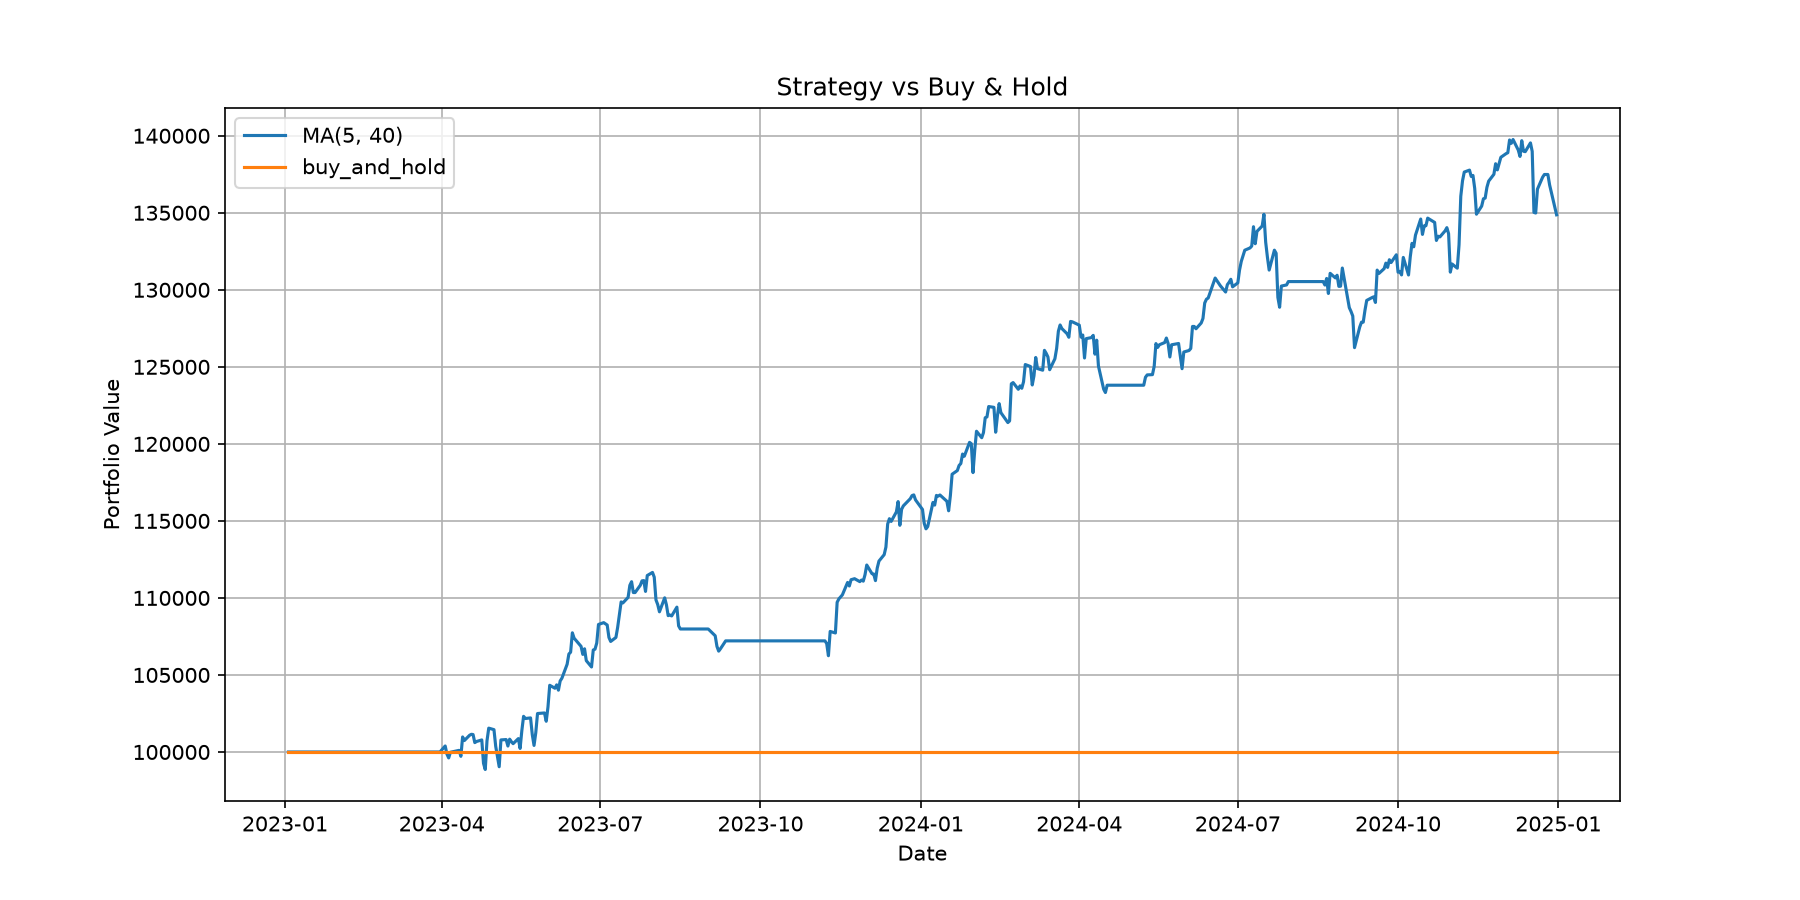
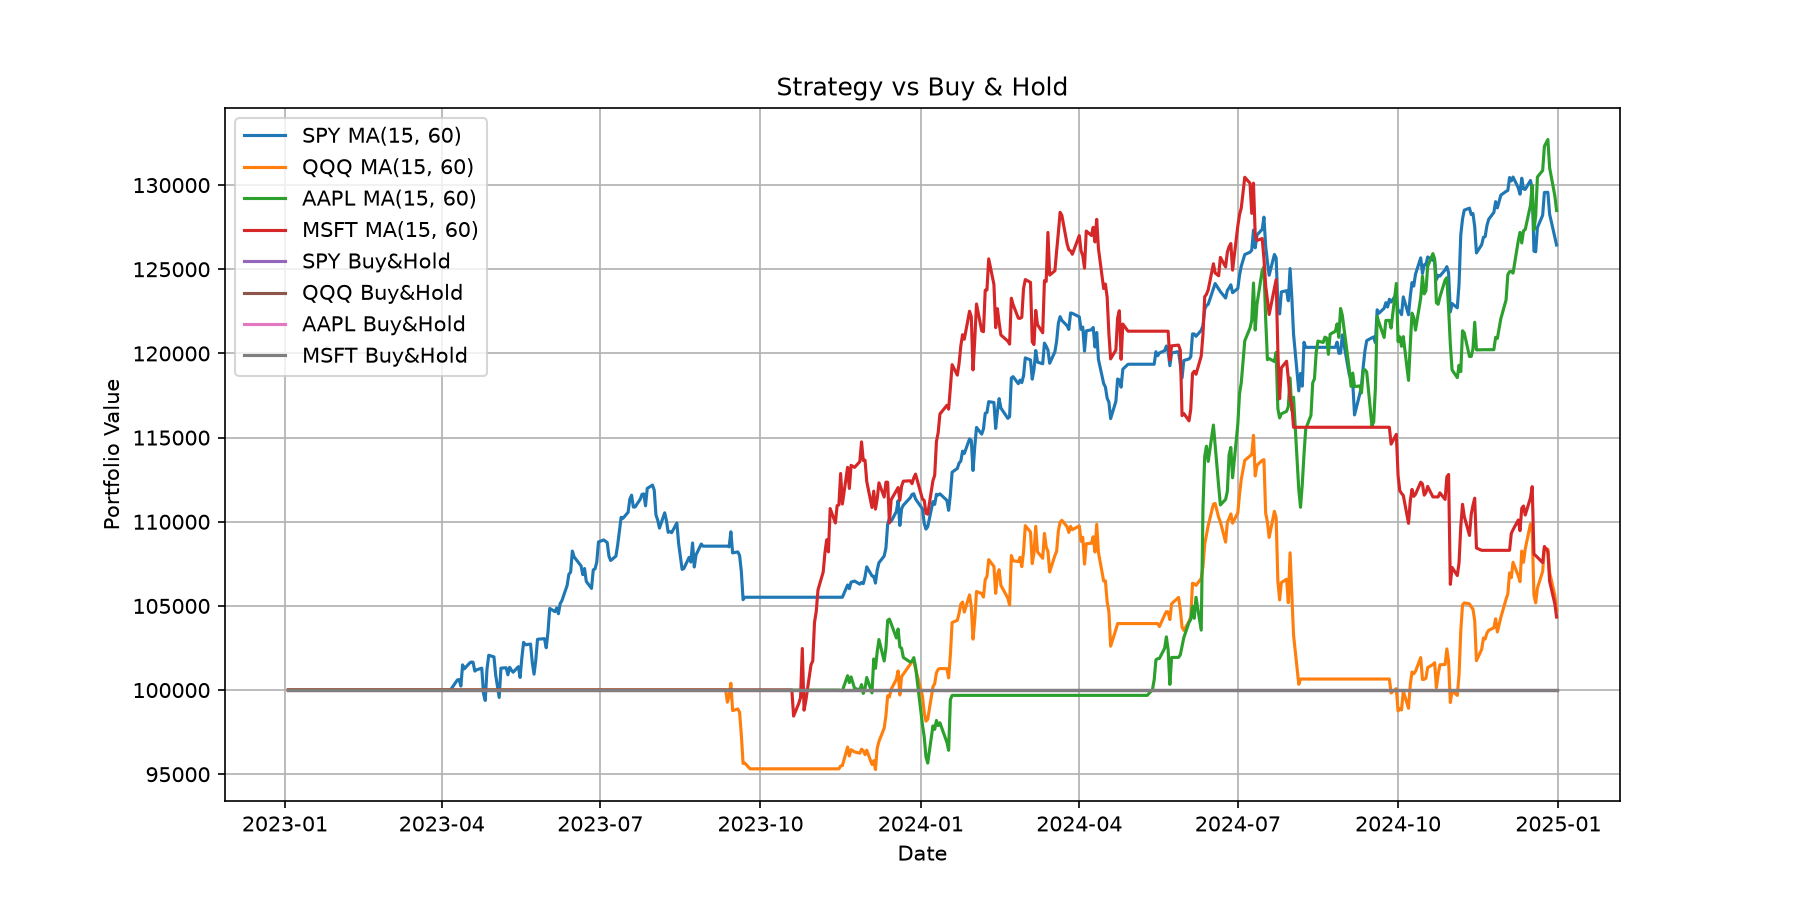
mutiple opt ma and analysis

diff --git a/src/engine.py b/src/engine.py
@@ -1,5 +1,6 @@
 from datetime import datetime
 from pathlib import Path
+from collections import defaultdict
 
 import backtrader as bt
 
@@ -69,6 +70,22 @@ def run_single_ma(ticker, fast, slow, start_year, end_year, cash=100_000):
         final_value=cerebro.broker.getvalue(),
     )
 
+def run_multipl_ma(tickers, fast, slow, start_year, end_year, cash=100_000):
+    # print("her")
+    results = [] 
+    for ticker in tickers:
+        results.append(run_single_ma(
+            ticker=ticker,
+            fast=fast,
+            slow=slow,
+            start_year=start_year,
+            end_year=end_year,
+            cash=cash
+        )   )
+
+    return results
+    
+
 
 def run_buy_and_hold(ticker, start_year, end_year, cash=100_000):
     cerebro = bt.Cerebro()
@@ -96,6 +113,19 @@ def run_buy_and_hold(ticker, start_year, end_year, cash=100_000):
         final_value=cerebro.broker.getvalue(),
     )
 
+
+def multiple_buy_and_hold(tickers, start_year, end_year, cash=100_000):
+    results = []
+    for ticker in tickers:
+        results.append(
+            run_buy_and_hold(
+                ticker, 
+                start_year,
+                end_year,
+                cash
+            )
+        )
+    return results
 
 def optimize_ma(ticker, start_year, end_year, cash=100_000):
     cerebro = bt.Cerebro()
@@ -139,3 +169,30 @@ def optimize_ma(ticker, start_year, end_year, cash=100_000):
     )
 
     return rows
+def multiple_opt_ma(tickers, start_year, end_year, cash=100_000):
+    results = []
+    for ticker in tickers:
+        results.append(
+            optimize_ma(
+                ticker=ticker,
+                start_year=start_year,
+                end_year=end_year,
+                cash=cash
+            )
+        )
+
+    all_results = [item for sublist in results for item in sublist]
+    param_scores = defaultdict(list)
+    for r in all_results:
+        if r["sharpe"] is not None: 
+            key = (r["fast"], r["slow"])
+            param_scores[key].append(r["sharpe"])
+
+    best_key = max(
+        param_scores,
+        # key=lambda k :sum(param_scores[k]/ len(param_scores[k]))
+        key=lambda k: sum(param_scores[k])/len(param_scores[k])
+    )
+    best = {"fast": best_key[0], "slow": best_key[1]}
+    print(f"testing best {type(best)}")
+    return best

diff --git a/backtests/run_walk_forward.py b/backtests/run_walk_forward.py
@@ -2,7 +2,7 @@ from pathlib import Path
 
 import pandas as pd
 
-from src.engine import optimize_ma, run_single_ma, run_buy_and_hold
+from src.engine import optimize_ma, run_single_ma, run_buy_and_hold, run_multipl_ma, multiple_opt_ma, multiple_buy_and_hold
 from src.plotting import plot_equity_curves
 
 
@@ -14,8 +14,8 @@ def remove_large_objects(row):
 
 
 def main():
-    ticker = "SPY"
-
+    # ticker = [[]]
+    tickers = ["SPY", "QQQ", "AAPL", "MSFT"]
     train_start = 2020
     train_end = 2023
 
@@ -23,15 +23,20 @@ def main():
     test_end = 2025
 
     print("Optimizing on training period...")
-    train_results = optimize_ma(ticker, train_start, train_end)
-    best = train_results[0]
+    train_results = multiple_opt_ma(tickers=tickers, start_year=train_start, end_year=train_end) 
+    #optimize_ma(tickers, train_start, train_end)
+    # print("===")
+    # print(type(train_results))
+    # print(train_results[0]["ticker"])
+    # print("===")
+    best = train_results
 
     print("Best train parameter:")
-    print(best)
+    print(type(best))
 
     print("Testing MA strategy...")
-    ma_test = run_single_ma(
-        ticker=ticker,
+    ma_test = run_multipl_ma (  #run_single_ma
+        tickers=tickers,
         fast=best["fast"],
         slow=best["slow"],
         start_year=test_start,
@@ -39,26 +44,20 @@ def main():
     )
 
     print("Running benchmark...")
-    benchmark = run_buy_and_hold(
-        ticker=ticker,
+    benchmark = multiple_buy_and_hold(#run_buy_and_hold(
+        tickers=tickers,
         start_year=test_start,
         end_year=test_end,
     )
 
-    report_rows = [
-        {
-            "phase": "train",
-            **best,
-        },
-        {
-            "phase": "test",
-            **remove_large_objects(ma_test),
-        },
-        {
-            "phase": "benchmark",
-            **remove_large_objects(benchmark),
-        },
-    ]
+    report_rows = [    ]
+    for r in ma_test:
+        report_rows.append({"phase": "test", **remove_large_objects(r)})
+    for r in benchmark:
+        report_rows.append({"phase": "benchmark", **remove_large_objects(r)})
+
+    # report_rows.append({"phase", "benchmark", **best})
+    report_rows.append({"phase": "train", **best})
 
     reports_dir = Path("reports")
     reports_dir.mkdir(exist_ok=True)

diff --git a/src/plotting.py b/src/plotting.py
@@ -7,16 +7,18 @@ import matplotlib.pyplot as plt
 def plot_equity_curves(results, output_path):
     plt.figure(figsize=(12, 6))
 
-    for result in results:
-        df = pd.DataFrame(result["portfolio_values"])
-        df["date"] = pd.to_datetime(df["date"])
+    for result_list in results:
+        # result_list 是 [{"ticker": "SPY", ...}, {"ticker": "QQQ", ...}]
+        for result in result_list:
+            df = pd.DataFrame(result["portfolio_values"])
+            df["date"] = pd.to_datetime(df["date"])
 
-        label = result["strategy"]
+            if result["strategy"] == "ma_cross":
+                label = f"{result['ticker']} MA({result['fast']}, {result['slow']})"
+            else:
+                label = f"{result['ticker']} Buy&Hold"
 
-        if result["strategy"] == "ma_cross":
-            label = f"MA({result['fast']}, {result['slow']})"
-
-        plt.plot(df["date"], df["value"], label=label)
+            plt.plot(df["date"], df["value"], label=label)
 
     plt.title("Strategy vs Buy & Hold")
     plt.xlabel("Date")